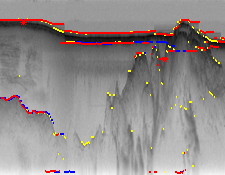
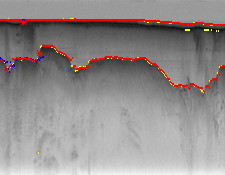
changed transition probability to vary exponentially by distance

diff --git a/part2/polar.py b/part2/polar.py
@@ -25,12 +25,14 @@ def edge_strength(input_image):
 def get_distance_distr(row1, len):
     diff =  [] 
     for row in range(0,edge_strength.shape[0]):
-        #diff.append(1/(2**(abs(row1 - row)+1)))
         dist = abs(row1-row)
+        diff.append(1/(2**dist+1))
+
         #diff.append((len - dist)/len)
-        diff.append(1/(dist+1))
+        #diff.append(1/(dist+1))
     diff = diff/sum(diff)
     return diff
+
 
 # draw a "line" on an image (actually just plot the given y-coordinates
 #  for each x-coordinate)
@@ -172,6 +174,7 @@ def get_feedback_rows_ice_rock(edge_strength, row_coord, col_coord, air_ice):
     V_table[:,col_coord] = emission_probs[:,col_coord]
     V_table[row_coord,col_coord] = -np.log(1)
     median_airice = int(median(air_ice))
+
     for t in range(col_coord-1, 0,-1):
         for row in range(edge_strength.shape[0]-1, median_airice+10, -1):
             distance_distr = get_distance_distr(row, edge_strength.shape[0])
